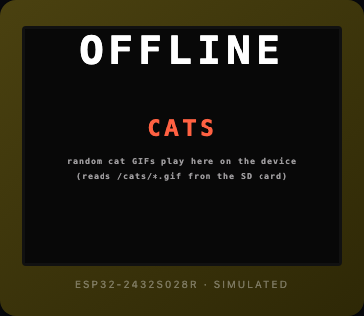
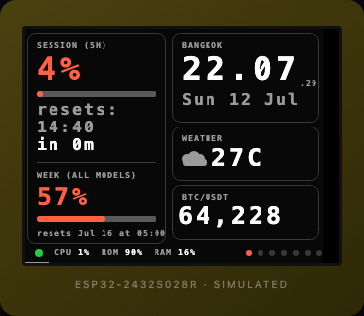
fix: reserve 16px black padding on right edge, relayout all pages to fit 304px
The physical display has a 16px unusable/overscanned strip on its right
edge, so every page's cards, bars, and text now fit within 0-304px
instead of 0-320px, with the padding always overlaid in black. Ported
to both the firmware and simulator to keep them in lockstep.

diff --git a/simulator.html b/simulator.html
@@ -234,7 +234,7 @@ const LAST_USAGE_KEY = 'cyddashboard_v1_lastusage';
 // lands at x=319, regardless of PAGE_COUNT (mirrors the firmware fix for a
 // 5th dot pushing past the 320px screen edge).
 const DOT_SPACING = 12;
-const DOT_START_X = 316 - (PAGE_COUNT - 1) * DOT_SPACING;
+const DOT_START_X = 300 - (PAGE_COUNT - 1) * DOT_SPACING;
 const STALE_AFTER_SEC = 60;
 
 // Flash/RAM are on-device figures with no browser equivalent, so these
@@ -420,7 +420,7 @@ function drawFooter() {
   const pollMs = Number(document.getElementById('poll-interval').value) || POLL_DEFAULT_MS;
   let elapsed = performance.now() - STATE.lastPollMs;
   if (elapsed > pollMs) elapsed = pollMs;
-  const lineW = Math.round(elapsed / pollMs * 320);
+  const lineW = Math.round(elapsed / pollMs * 304);
   if (lineW > 0) gfx.fillRect(0, 239, lineW, 1, COL_TEXT2);
 }
 
@@ -430,7 +430,7 @@ function drawLimitBlock(y, title, percent, resets, resetsInSec) {
   gfx.setCursor(10, y);
   gfx.print(title);
 
-  const barX = 10, barY = y + 22, barW = 195, barH = 16;
+  const barX = 10, barY = y + 22, barW = 175, barH = 16;
   gfx.fillRoundRect(barX, barY, barW, barH, 3, COL_TRACK);
   if (percent >= 0) {
     const fillW = Math.round(Math.min(percent, 100) / 100 * barW);
@@ -439,7 +439,7 @@ function drawLimitBlock(y, title, percent, resets, resetsInSec) {
 
   gfx.setTextColor(COL_TEXT);
   gfx.setTextSize(2);
-  gfx.setCursor(215, barY + 1);
+  gfx.setCursor(195, barY + 1);
   gfx.print(percent >= 0 ? percent + '% used' : '--');
 
   gfx.setTextColor(COL_TEXT2);
@@ -496,7 +496,7 @@ function drawProjectsPage() {
     for (let i = 0; i < shown; i++) if (STATE.projects[i].tokens > maxTokens) maxTokens = STATE.projects[i].tokens;
 
     let y = 22;
-    const barMaxW = 250;
+    const barMaxW = 230;
     for (let i = 0; i < shown; i++) {
       const p = STATE.projects[i];
       gfx.setTextColor(COL_TEXT);
@@ -517,7 +517,7 @@ function drawProjectsPage() {
   }
 
   // ── lower half: 7-day trend ──
-  gfx.fillRect(10, 128, 300, 1, COL_BORDER);
+  gfx.fillRect(10, 128, 284, 1, COL_BORDER);
   gfx.setTextColor(COL_TEXT);
   gfx.setTextSize(1);
   gfx.setCursor(10, 134);
@@ -598,11 +598,11 @@ function drawCardLabel(x, y, label) {
 // (y=4 h=92), weather (y=100 h=56), BTC (y=160 h=56), 4px gaps. All cards
 // are 152px wide with 10px inner padding (content x=14 / x=174, width 132).
 function drawLimitsCard() {
-  gfx.fillRoundRect(4, 4, 152, 216, 8, COL_SURFACE);
-  gfx.drawRoundRect(4, 4, 152, 216, 8, COL_BORDER);
+  gfx.fillRoundRect(2, 4, 142, 216, 8, COL_SURFACE);
+  gfx.drawRoundRect(2, 4, 142, 216, 8, COL_BORDER);
 
   // ── left card: limits ──
-  drawCardLabel(14, 13, 'SESSION (5H)');
+  drawCardLabel(12, 13, 'SESSION (5H)');
 
   // Tick the session countdown down locally between polls.
   let sessionRem = STATE.sessionResetsInSec;
@@ -613,57 +613,57 @@ function drawLimitsCard() {
 
   gfx.setTextColor(COL_ACCENT);
   gfx.setTextSize(4);
-  gfx.setCursor(14, 28);
+  gfx.setCursor(12, 28);
   gfx.print(STATE.sessionPercent >= 0 ? STATE.sessionPercent + '%' : '--');
 
-  drawMiniBar(14, 64, 132, STATE.sessionPercent, COL_ACCENT);
+  drawMiniBar(12, 64, 122, STATE.sessionPercent, COL_ACCENT);
 
   gfx.setTextColor(COL_TEXT2);
   gfx.setTextSize(2);
-  gfx.setCursor(14, 76);
+  gfx.setCursor(12, 76);
   gfx.print('resets:');
-  gfx.setCursor(14, 94);
+  gfx.setCursor(12, 94);
   gfx.print(STATE.sessionResets || '--');
   gfx.setTextColor(COL_TEXT);
   gfx.setTextSize(2);
-  gfx.setCursor(14, 112);
+  gfx.setCursor(12, 112);
   if (sessionRem >= 0) gfx.print('in ' + fmtCountdown(sessionRem));
 
-  gfx.fillRect(14, 136, 132, 1, COL_BORDER);
+  gfx.fillRect(12, 136, 122, 1, COL_BORDER);
 
-  drawCardLabel(14, 147, 'WEEK (ALL MODELS)');
+  drawCardLabel(12, 147, 'WEEK (ALL MODELS)');
 
   gfx.setTextColor(COL_ACCENT);
   gfx.setTextSize(3);
-  gfx.setCursor(14, 162);
+  gfx.setCursor(12, 162);
   gfx.print(STATE.weekPercent >= 0 ? STATE.weekPercent + '%' : '--');
 
-  drawMiniBar(14, 192, 132, STATE.weekPercent, COL_ACCENT);
+  drawMiniBar(12, 192, 122, STATE.weekPercent, COL_ACCENT);
 
   // "resets Jul 9 at 4:59am" is 22 chars = 132px at size1 — exactly the
   // card's inner width, so this line must stay size1.
   gfx.setTextColor(COL_TEXT2);
   gfx.setTextSize(1);
-  gfx.setCursor(14, 206);
+  gfx.setCursor(12, 206);
   gfx.print(STATE.weekResets ? 'resets ' + STATE.weekResets : 'resets --');
 }
 
 function drawStatusPage() {
   drawLimitsCard();
-  gfx.fillRoundRect(164, 4, 152, 92, 8, COL_SURFACE);
-  gfx.drawRoundRect(164, 4, 152, 92, 8, COL_BORDER);
-  gfx.fillRoundRect(164, 100, 152, 56, 8, COL_SURFACE);
-  gfx.drawRoundRect(164, 100, 152, 56, 8, COL_BORDER);
-  gfx.fillRoundRect(164, 160, 152, 56, 8, COL_SURFACE);
-  gfx.drawRoundRect(164, 160, 152, 56, 8, COL_BORDER);
+  gfx.fillRoundRect(150, 4, 150, 92, 8, COL_SURFACE);
+  gfx.drawRoundRect(150, 4, 150, 92, 8, COL_BORDER);
+  gfx.fillRoundRect(150, 100, 150, 56, 8, COL_SURFACE);
+  gfx.drawRoundRect(150, 100, 150, 56, 8, COL_BORDER);
+  gfx.fillRoundRect(150, 160, 150, 56, 8, COL_SURFACE);
+  gfx.drawRoundRect(150, 160, 150, 56, 8, COL_BORDER);
 
   // ── right cards: Bangkok clock/date, weather, BTC price ──
   const bkk = bangkokParts();
 
-  drawCardLabel(174, 13, 'BANGKOK');
+  drawCardLabel(160, 13, 'BANGKOK');
 
   gfx.setTextSize(4);
-  gfx.setCursor(174, 28);
+  gfx.setCursor(160, 28);
   if (bkk) {
     gfx.setTextColor(COL_TEXT);
     gfx.print(bkk.hour + '.' + bkk.minute);
@@ -671,7 +671,7 @@ function drawStatusPage() {
     gfx.setTextSize(1);
     // Bottom-align the small seconds against the big "HH.MM" cell (32px
     // tall at size4 vs. 8px at size1): x is the fixed 5-char size4 advance.
-    gfx.setCursor(174 + 5 * 24, 52);
+    gfx.setCursor(160 + 5 * 24, 52);
     gfx.print('.' + bkk.second);
   } else {
     gfx.setTextColor(COL_TEXT2);
@@ -680,24 +680,24 @@ function drawStatusPage() {
 
   gfx.setTextColor(COL_TEXT2);
   gfx.setTextSize(2);
-  gfx.setCursor(174, 66);
+  gfx.setCursor(160, 66);
   // Year dropped: "Mon 25 Jul 2026" at size2 would overrun the 132px inner
   // width; weekday+day+month fits at 120px.
   gfx.print(bkk ? (bkk.weekday + ' ' + bkk.day + ' ' + bkk.month) : '--');
 
-  drawCardLabel(174, 109, 'WEATHER');
+  drawCardLabel(160, 109, 'WEATHER');
 
-  drawWeatherIcon(174, 124, STATE.weatherCode);
+  drawWeatherIcon(160, 124, STATE.weatherCode);
   gfx.setTextColor(COL_TEXT);
   gfx.setTextSize(3);
-  gfx.setCursor(204, 122);
+  gfx.setCursor(190, 122);
   gfx.print(STATE.weatherTempC > -900 ? Math.round(STATE.weatherTempC) + 'C' : '--');
 
-  drawCardLabel(174, 169, 'BTC/USDT');
+  drawCardLabel(160, 169, 'BTC/USDT');
 
   gfx.setTextColor(COL_TEXT);
   gfx.setTextSize(3);
-  gfx.setCursor(174, 182);
+  gfx.setCursor(156, 182);
   gfx.print(fmtBtc(STATE.btcPrice));
 }
 
@@ -728,7 +728,7 @@ function drawLongTrendPage() {
   let maxTokens = 1;
   for (const t of bars) if (t > maxTokens) maxTokens = t;
 
-  const chartX = 10, chartY = 36, chartH = 148, chartW = 300;
+  const chartX = 10, chartY = 36, chartH = 148, chartW = 290;
   const barW = 6, gap = 4;
   const startX = chartX + chartW - bars.length * (barW + gap);
   for (let i = 0; i < bars.length; i++) {
@@ -754,7 +754,7 @@ function drawFullStatBlock(y, title, percent, sub, color) {
   gfx.setCursor(10, y);
   gfx.print(title);
 
-  const barX = 10, barY = y + 14, barW = 245, barH = 16;
+  const barX = 10, barY = y + 14, barW = 230, barH = 16;
   gfx.fillRoundRect(barX, barY, barW, barH, 3, COL_TRACK);
   if (percent >= 0) {
     const fillW = Math.round(Math.min(percent, 100) / 100 * barW);
@@ -804,10 +804,10 @@ function drawDevicePage() {
 // mirrors the firmware's drawOfflineBanner(). A solid bar behind the text
 // keeps it legible over a busy GIF frame on the real device.
 function drawOfflineBanner() {
-  gfx.fillRect(0, 0, 320, 44, COL_BG);
+  gfx.fillRect(0, 0, 304, 44, COL_BG);
   gfx.setTextColor(COL_TEXT);
   gfx.setTextSize(5);
-  gfx.setCursor(55, 6);  // centered: "OFFLINE" is 7 chars * 30px = 210px; (320-210)/2 = 55
+  gfx.setCursor(47, 6);  // centered: "OFFLINE" is 7 chars * 30px = 210px; (304-210)/2 = 47
   gfx.print('OFFLINE');
 }
 
@@ -822,18 +822,21 @@ function drawGifPage(offline) {
   gfx.fillScreen(COL_BG);
   gfx.setTextColor(COL_ACCENT);
   gfx.setTextSize(3);
-  gfx.setCursor(124, 92);  // "CATS" = 4 chars * 18px = 72; (320-72)/2 = 124
+  gfx.setCursor(116, 92);  // "CATS" = 4 chars * 18px = 72; (304-72)/2 = 116
   gfx.print('CATS');
   gfx.setTextColor(COL_TEXT2);
   gfx.setTextSize(1);
   const msg = 'random cat GIFs play here on the device';
-  gfx.setCursor((320 - msg.length * 6) / 2, 132);
+  gfx.setCursor((304 - msg.length * 6) / 2, 132);
   gfx.print(msg);
   const note = '(reads /cats/*.gif from the SD card)';
-  gfx.setCursor((320 - note.length * 6) / 2, 148);
+  gfx.setCursor((304 - note.length * 6) / 2, 148);
   gfx.print(note);
   drawSessionResetOverlay();
   if (offline) drawOfflineBanner();
+  
+  // 5% right-edge padding
+  gfx.fillRect(304, 0, 16, 240, '#000000');
 }
 
 // "26% reset: 02:09" pinned to the bottom-left corner of the full-screen
@@ -871,19 +874,22 @@ function drawMixedPage(offline) {
   }
 
   // Draw right side GIF placeholder box
-  gfx.drawRoundRect(164, 4, 152, 216, 8, COL_BORDER);
+  gfx.drawRoundRect(150, 4, 150, 216, 8, COL_BORDER);
   gfx.setTextColor(COL_ACCENT);
   gfx.setTextSize(2);
-  gfx.setCursor(216, 92);
+  gfx.setCursor(202, 92);
   gfx.print('CATS');
   gfx.setTextColor(COL_TEXT2);
   gfx.setTextSize(1);
   const msg = 'cat GIFs loop';
-  gfx.setCursor(164 + (152 - msg.length * 6) / 2, 120);
+  gfx.setCursor(150 + (150 - msg.length * 6) / 2, 120);
   gfx.print(msg);
   const note = 'here on device';
-  gfx.setCursor(164 + (152 - note.length * 6) / 2, 136);
+  gfx.setCursor(150 + (150 - note.length * 6) / 2, 136);
   gfx.print(note);
+
+  // 5% right-edge padding
+  gfx.fillRect(304, 0, 16, 240, '#000000');
 }
 
 function render() {
@@ -915,6 +921,10 @@ function render() {
     case 4: drawLongTrendPage(); break;
   }
   drawFooter();
+  
+  // 5% right-edge padding (16px of 320px) always overlaid in black
+  gfx.fillRect(304, 0, 16, 240, '#000000');
+  
   document.getElementById('page-status').textContent =
     'page ' + (STATE.currentPage + 1) + '/' + PAGE_COUNT;
 }
